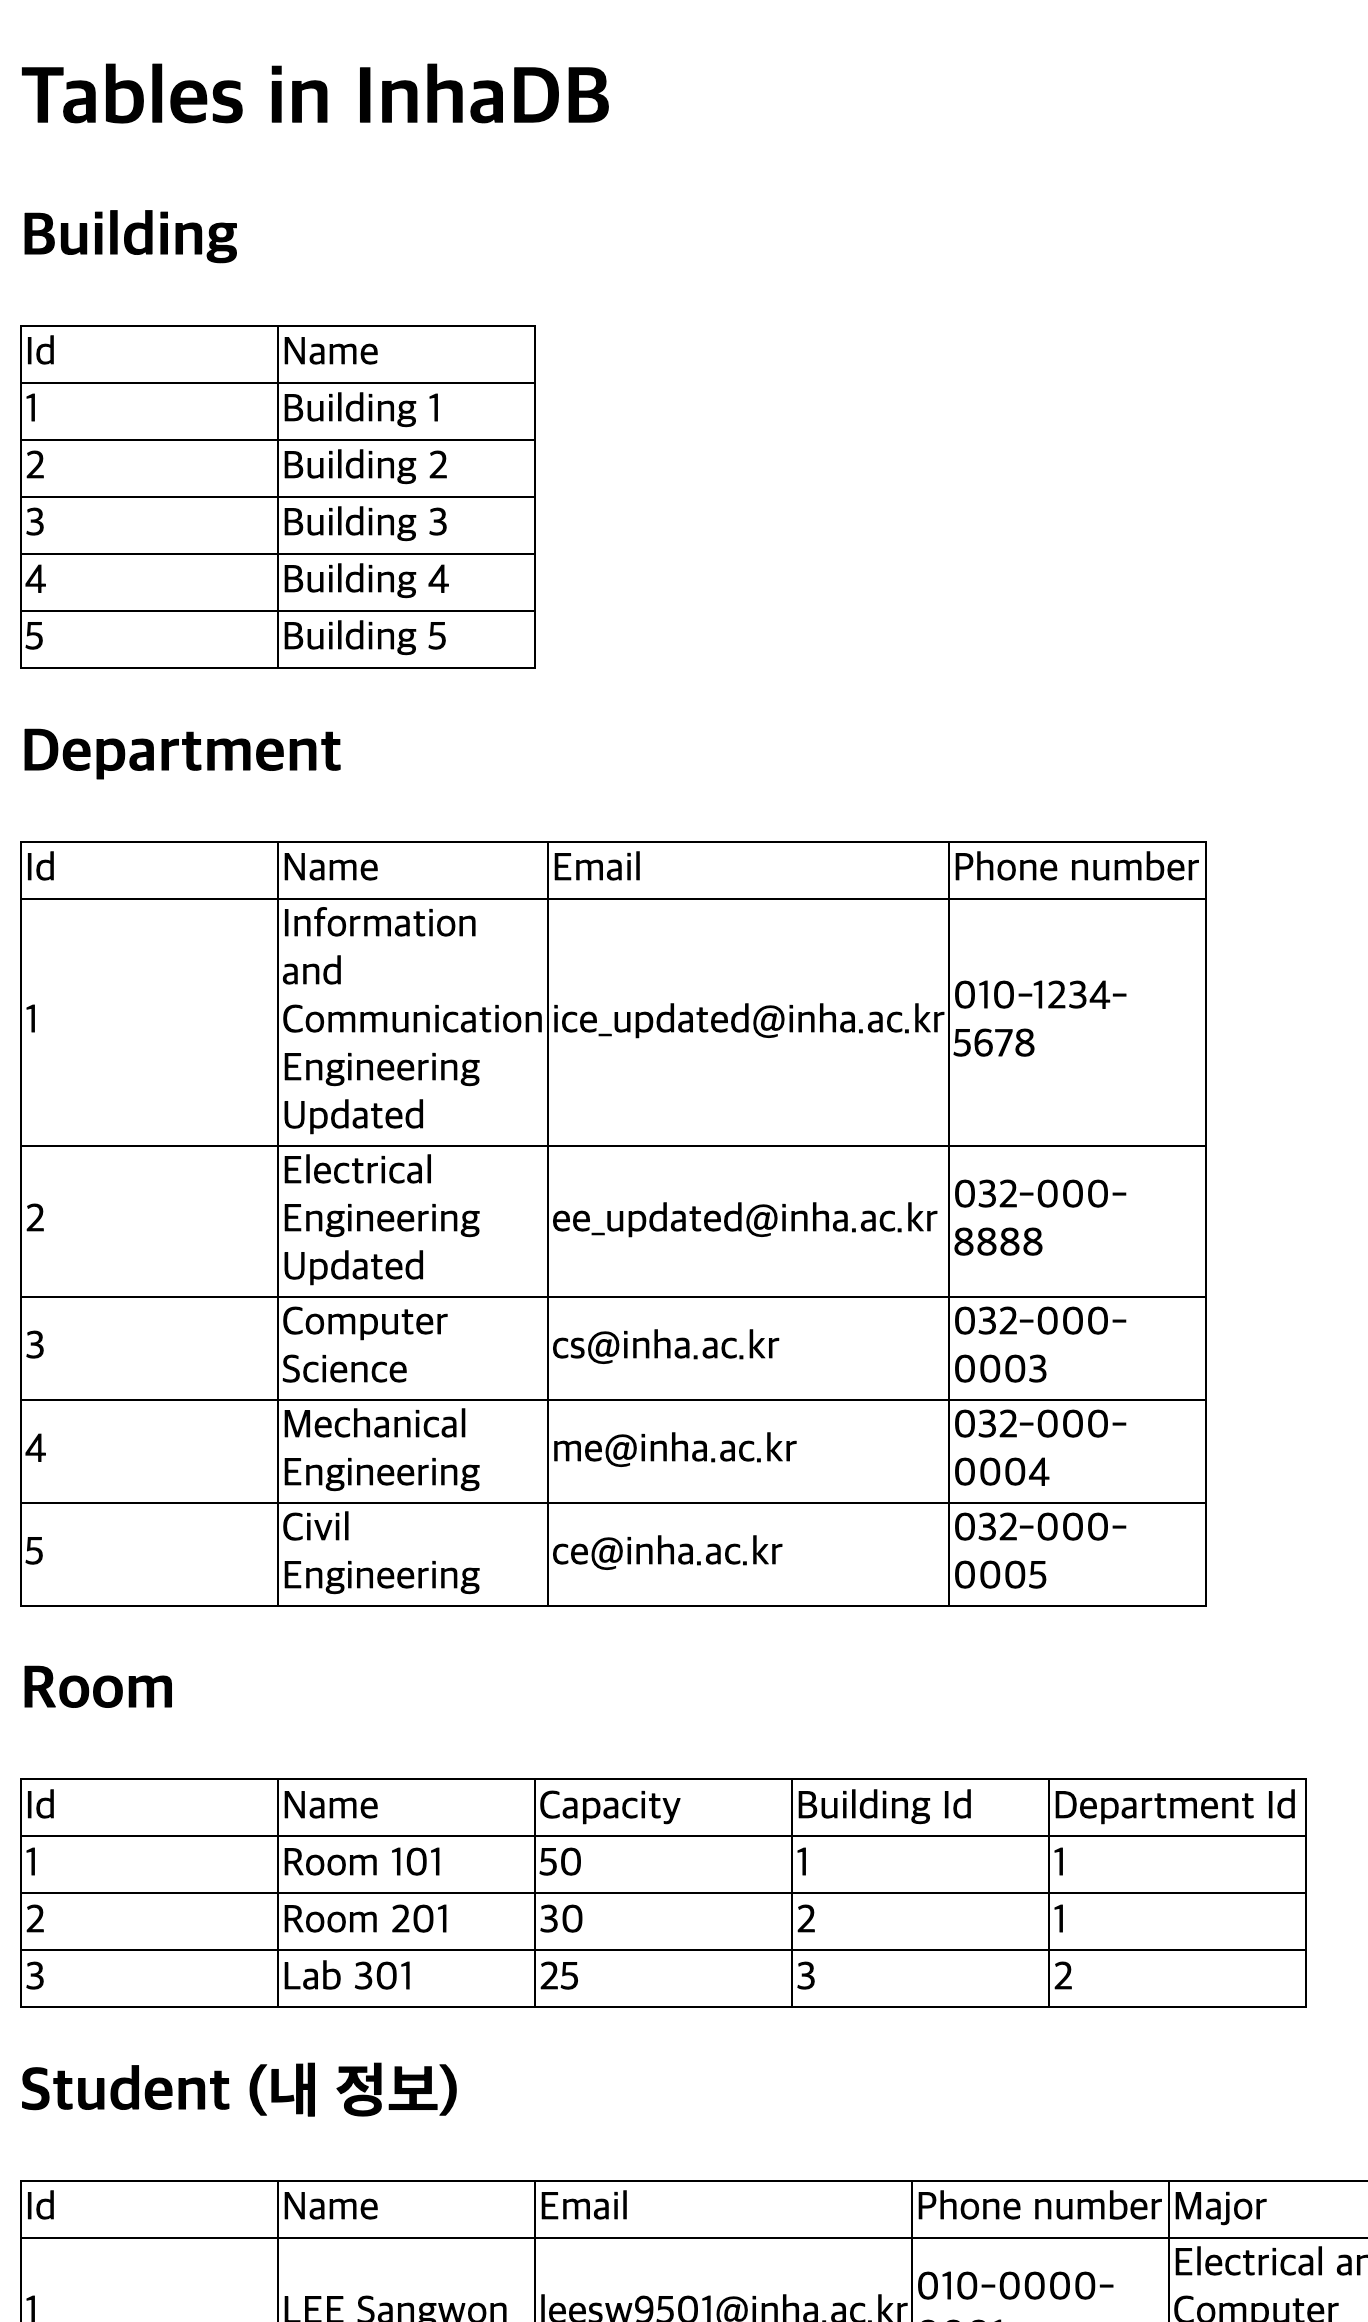
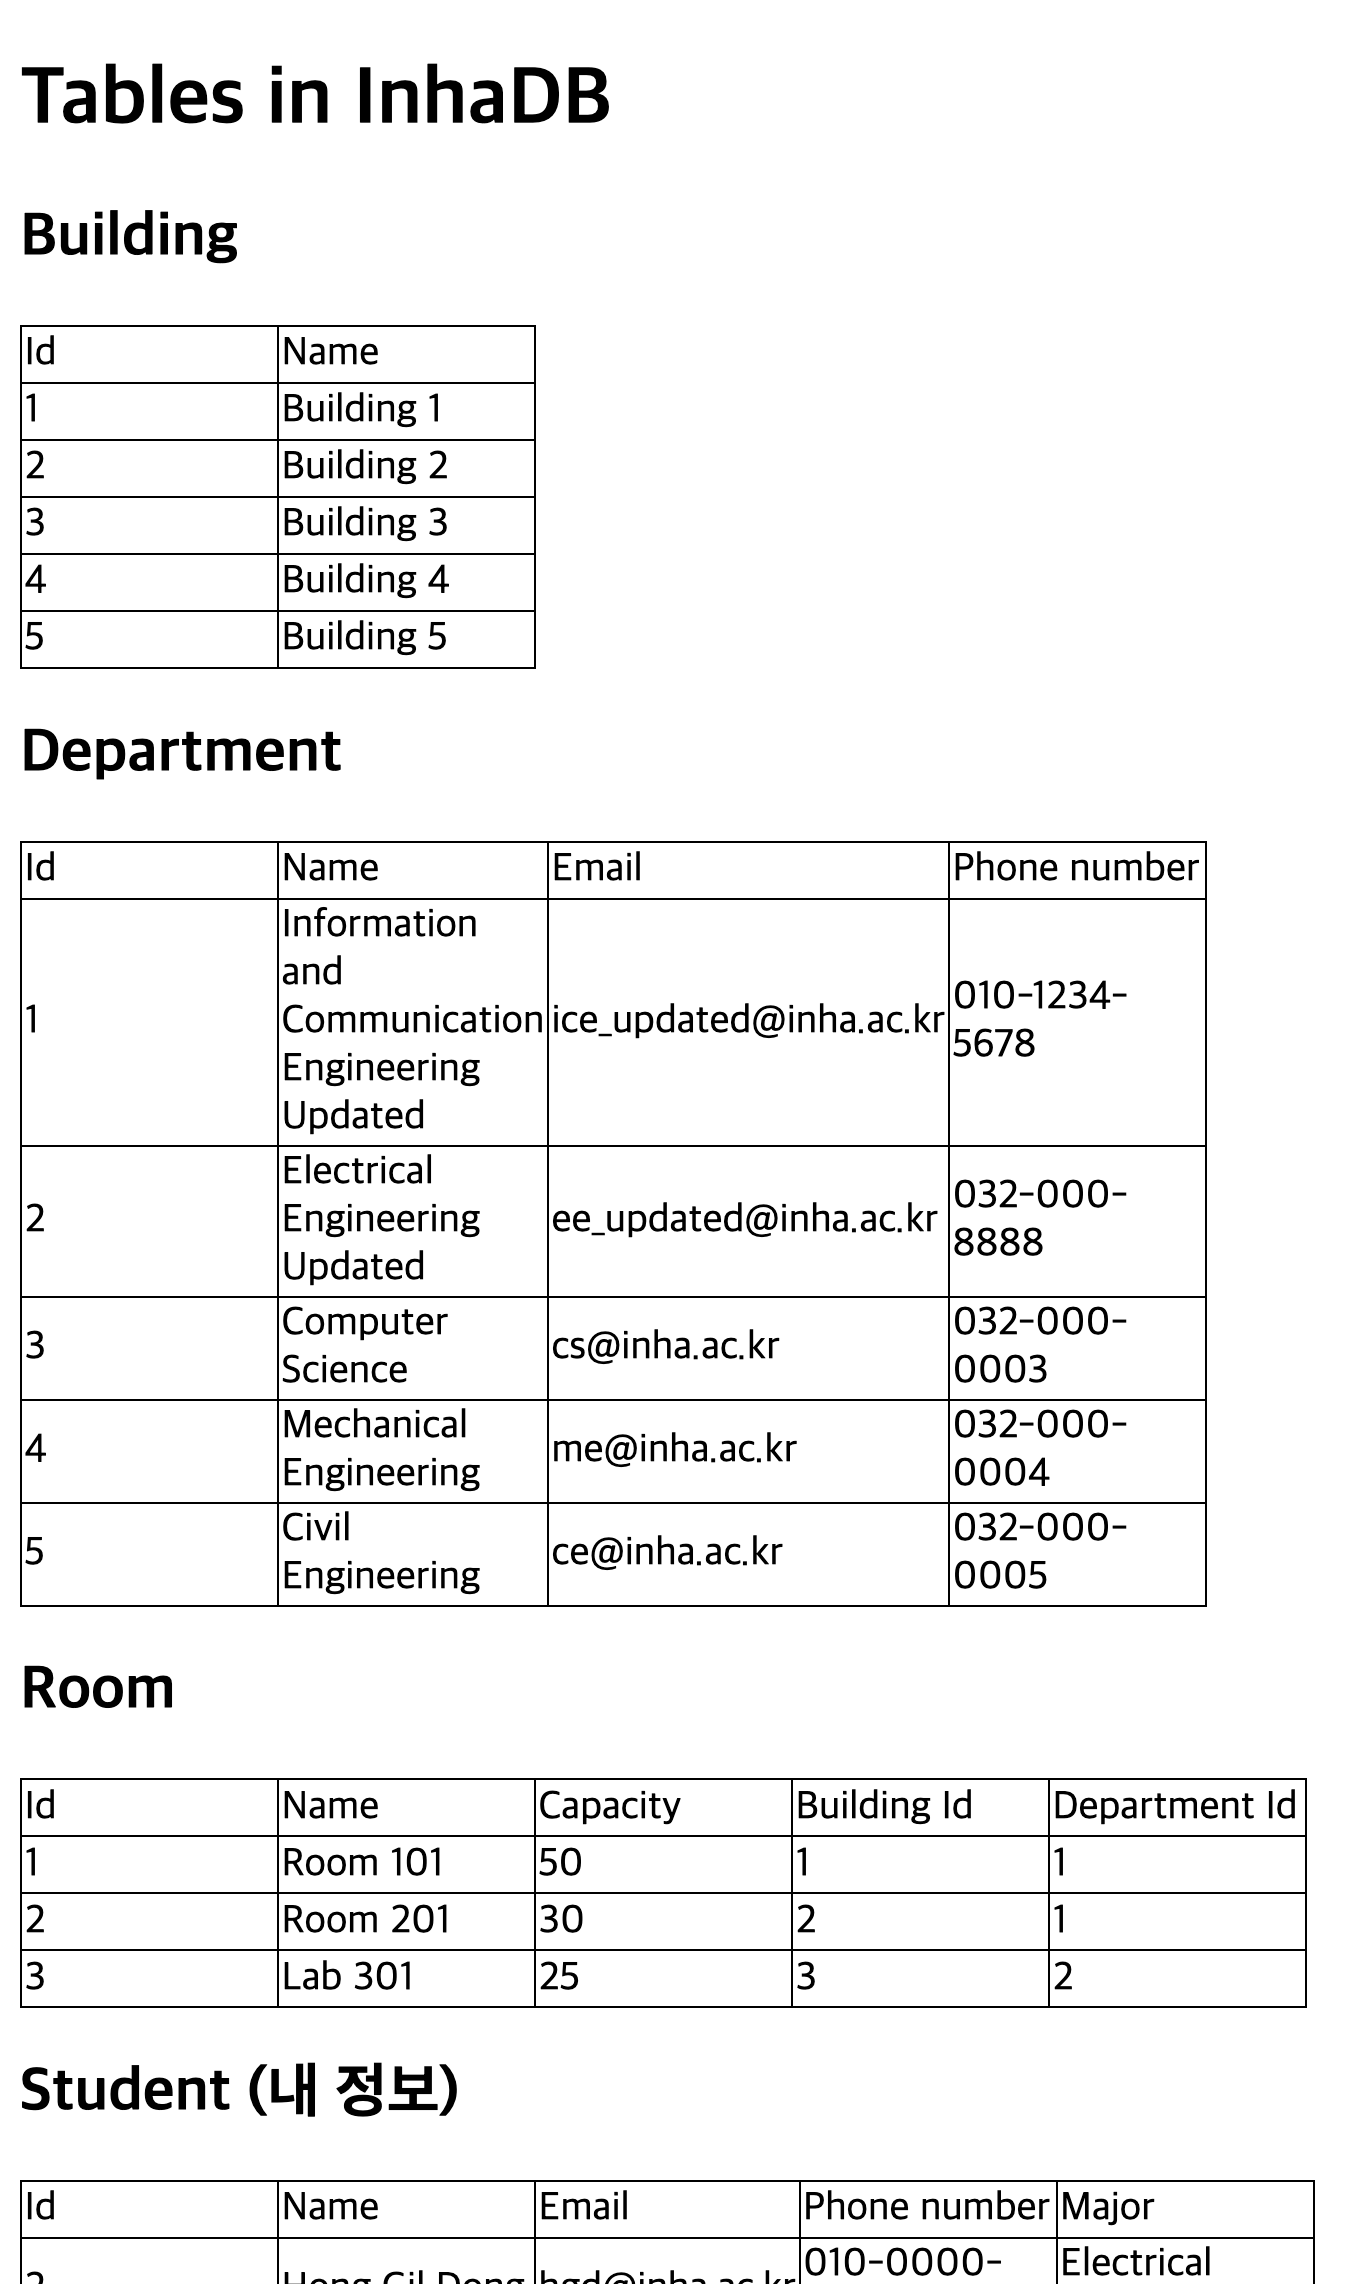
fix: 현재 MySQL 데이터 상태에 맞게 스크린샷 재촬영 및 보고서 업데이트
- 학생 2번(Hong Gil Dong)으로 로그인하여 현재 데이터 반영
- 수강 수업 2개(Database, Circuit Theory) 표시
- Database 수업 삭제 후 Circuit Theory만 남는 화면 캡처
- 보고서 설명을 현재 데이터 상태에 맞게 수정

diff --git a/assignments/week7/Week10_최종검토.md b/assignments/week7/Week10_최종검토.md
@@ -1,0 +1,127 @@
+# 10주차 과제 최종 검토 결과
+
+## ✅ 검토 완료 항목
+
+### 1. 파일 구조 확인
+- ✅ **로그인 관련 파일**
+  - `routes/login.js` - 로그인 라우터 생성 완료
+  - `views/login.hbs` - 로그인 페이지 생성 완료
+
+- ✅ **수강취소 관련 파일**
+  - `routes/delete.js` - 수강취소 라우터 생성 완료
+  - `views/deleteClass.hbs` - 수강취소 페이지 생성 완료
+
+- ✅ **데이터베이스 관련 파일**
+  - `enrollment_table.sql` - Enrollment 테이블 생성 SQL
+  - `database/sql.js` - 로그인 및 수강취소 쿼리 추가 완료
+
+- ✅ **수정된 파일**
+  - `package.json` - express-session 추가
+  - `src/index.js` - 세션 설정 및 라우터 등록
+  - `routes/select.js` - 권한 체크 및 학생 정보 필터링
+
+### 2. 스크린샷 확인
+- ✅ **5개 스크린샷 모두 존재**
+  - `01_login_page.png` (29KB)
+  - `02_student_info_page.png` (194KB)
+  - `03_delete_class_page.png` (40KB)
+  - `04_after_delete_class.png` (28KB)
+  - `05_login_failed.png` (29KB)
+
+- ✅ **보고서에 모든 스크린샷 참조 포함**
+  - 5개 스크린샷 모두 보고서에 포함됨
+
+### 3. 보고서 확인
+- ✅ **보고서 작성 서약서 포함**
+- ✅ **4개 섹션 모두 포함**
+  1. 개요
+  2. 상세 설계 내용
+  3. 실행 화면
+  4. 결론
+
+- ✅ **코드 캡처 및 설명**
+  - 주요 코드 블록 포함
+  - 알고리즘 동작 과정 설명
+  - 구현 방식과 사고 과정 설명
+
+### 4. 코드 품질 확인
+- ✅ **린터 오류 없음**
+- ✅ **SQL 비밀번호 정상**: `c3409711!`
+- ✅ **컬럼명 정상**: `PhoneNumber` 사용
+- ✅ **Merge conflict 해결 완료**: `user: 'root'`로 통일
+
+### 5. 데이터베이스 확인
+- ✅ **Enrollment 테이블 정상**: 4개 레코드 존재
+- ✅ **Student 테이블 정상**: 학생 정보 조회 가능
+- ✅ **Class 테이블 정상**: 수업 정보 조회 가능
+
+### 6. Git 상태 확인
+- ✅ **Working tree clean**: 모든 변경사항 커밋됨
+- ✅ **원격 저장소와 동기화**: 푸시 완료
+- ✅ **커밋 메시지 명확**: 변경사항이 잘 기록됨
+
+### 7. 요구사항 충족 확인
+
+#### STEP 1: 로그인 기능
+- ✅ 학생의 학번(Id) 및 비밀번호(전화번호, PhoneNumber)로 로그인
+- ✅ 로그인 성공 시 학생 정보 조회 페이지로 이동
+- ✅ 로그인 실패 시 경고 창 팝업
+
+#### STEP 2: 수강취소 기능
+- ✅ `localhost:3000/delete/class` 페이지 생성
+- ✅ 학생으로 로그인한 경우에만 접근 가능
+- ✅ 수강하는 수업(class)을 수강취소(삭제)할 수 있는 기능
+
+---
+
+## 📊 최종 통계
+
+### 파일 생성/수정
+- **새로 생성된 파일**: 6개
+  - routes/login.js
+  - routes/delete.js
+  - views/login.hbs
+  - views/deleteClass.hbs
+  - enrollment_table.sql
+  - Week10_과제보고서.md
+
+- **수정된 파일**: 4개
+  - package.json
+  - src/index.js
+  - database/sql.js
+  - routes/select.js
+
+- **스크린샷**: 5개
+
+### 코드 라인 수
+- 보고서: 428줄
+- 코드 변경: 약 200줄 추가
+
+---
+
+## ✅ 최종 검토 결과
+
+**구현 완료도: 100%**
+
+모든 요구사항이 완벽하게 구현되었고, 보고서도 완성되었습니다.
+
+### 확인된 사항
+1. ✅ 모든 파일 생성 및 수정 완료
+2. ✅ 데이터베이스 구조 정상
+3. ✅ 코드 문법 오류 없음
+4. ✅ 스크린샷 5개 모두 포함
+5. ✅ 보고서 4개 섹션 모두 포함
+6. ✅ 보고서 작성 서약서 포함
+7. ✅ Git 커밋 및 푸시 완료
+8. ✅ Working tree clean
+
+### 제출 준비 완료
+- ✅ 소스코드: 구현 완료 (제출 불필요)
+- ✅ 보고서: 완성 및 제출 준비 완료
+- ✅ 스크린샷: 모두 포함됨
+
+---
+
+**검토 일시**: 2024년 11월 10일
+**검토 결과**: ✅ 모든 항목 완료
+

diff --git a/assignments/week7/Week10_과제보고서.md b/assignments/week7/Week10_과제보고서.md
@@ -359,7 +359,7 @@ app.use('/delete', deleteRouter);
 
 **설명**:
 - 로그인 성공 후 자동으로 이동하는 페이지입니다.
-- 로그인한 학생(학생 1번: LEE Sangwon)의 정보가 "Student (내 정보)" 섹션에 표시됩니다.
+- 로그인한 학생(학생 2번: Hong Gil Dong)의 정보가 "Student (내 정보)" 섹션에 표시됩니다.
 - Building, Department, Room, Class 테이블 정보도 함께 표시되어 전체 데이터베이스 구조를 확인할 수 있습니다.
 
 ### 3.3 수강취소 페이지 (삭제 전)
@@ -367,16 +367,17 @@ app.use('/delete', deleteRouter);
 
 **설명**:
 - `localhost:3000/delete/class` 경로로 접속한 화면입니다.
-- 학생 1번이 수강하는 수업 1개가 표시됩니다:
-  - Data Structures (Prof. Kim)
+- 학생 2번이 수강하는 수업 2개가 표시됩니다:
+  - Database (Prof. Choi)
+  - Circuit Theory (Prof. Park)
 - 각 수업마다 "수강취소" 버튼이 있어 클릭 시 해당 수업을 수강취소할 수 있습니다.
 
 ### 3.4 수강취소 페이지 (삭제 후)
 ![수강취소 후 화면](screenshots/04_after_delete_class.png)
 
 **설명**:
-- Data Structures 수업의 "수강취소" 버튼을 클릭한 후의 화면입니다.
-- 모든 수업이 삭제되어 "수강 중인 수업이 없습니다." 메시지가 표시됩니다.
+- Database 수업의 "수강취소" 버튼을 클릭한 후의 화면입니다.
+- Database 수업이 삭제되어 Circuit Theory 수업만 남아있습니다.
 - 수강취소 기능이 정상적으로 작동하는 것을 확인할 수 있습니다.
 
 ### 3.5 로그인 실패 화면
